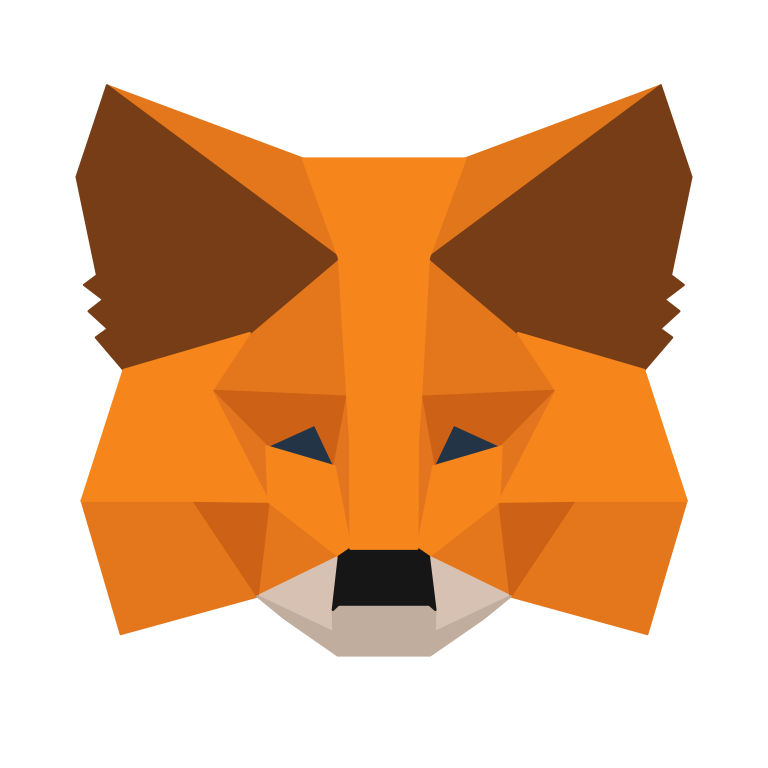
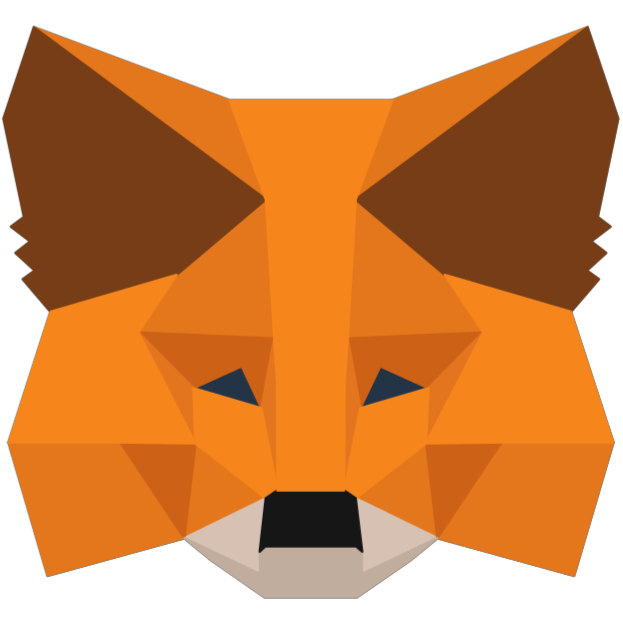
token meta

diff --git a/components/CreateProposalFlow/ListNFT.tsx b/components/CreateProposalFlow/ListNFT.tsx
@@ -1,14 +1,108 @@
-import React from 'react'
+import Image from 'next/image'
+import React, { useState } from 'react'
 import { SelectProposalProps } from './SelectProposal'
+import NFT from "../../assets/NFT.png";
+import { ProposalStep } from '../../pages/create-proposal';
+import { requiredTag } from '../CreateDAOForm';
+import Select from '../Select';
+import info from "../../assets/info.png";
+import { ArrowLeftIcon, ArrowRightIcon } from '@heroicons/react/solid';
 
 type Props = {}
 
+const option = [
+  {
+    "chainId": 'opensea',
+    "name": "Opensea",
+    "icon": "",
+    // "address": "",
+  },
+]
+
 const ListNFT: React.FC<SelectProposalProps> = ({
-    setCurrentStep,
-    handleBack
+  setCurrentStep,
+  handleBack
 }) => {
+
+  const [inputType, setInputType] = useState<any>({
+    "chainId": 'opensea',
+    "name": "Opensea",
+    "icon": "",
+    // "address": "",
+  })
+
+  const onSubmitHandler: React.FormEventHandler<HTMLFormElement> = (e) => {
+    e.preventDefault();
+    alert("Done")
+    // if (!name.length || !description.length || !tokenSupply || managementFee >= 100 || managementFee < 0 || tokenName.length !== 4) {
+    //     console.log('Error in values, Please input again')
+    //     return;
+    // }
+
+    // setCurrentStep(ProposalStep.)
+  }
+
   return (
-    <div>ListNFT</div>
+    <div className='pb-8 text-lg max-w-2xl mx-auto '>
+      <div className='max-w-2xl mx-auto text-lg flex items-center justify-between h-28 p-6 bg-[url("/Button.png")]  bg-[#232529]    bg-cover overflow-hidden rounded-2xl '>
+
+        <div className='text-white'>
+          <h2 className=' text-2xl font-normal font-britanica '>List NFT for Sale</h2>
+          <p className='text-lg font-montserrat'>List you vault’s NFT for sale</p>
+        </div>
+        <div className='mt-20'>
+          <Image src={NFT} height={220} width={220} />
+        </div>
+
+      </div>
+      <form onSubmit={onSubmitHandler}>
+
+        <div className='flex mt-6 space-x-10 '>
+          <label className='flex-[0.3]'>
+            <p className='text-xl mt-1 font-britanica font-normal'>PLatform for Sale</p>
+            <Select
+              options={option}
+              value={inputType}
+              onChange={(value) => setInputType(value)}
+              placeholder="Days"
+            />
+          </label>
+          <label className='flex-[0.7] relative'>
+            <p className='text-xl mt-2 font-britanica font-normal'>Listing Price in (eth)?</p>
+
+            <input required type='number' step="0" min={1} max={inputType.name === "Days" ? 7 : 24} className='p-3 rounded-lg bg-transparent focus:outline-none border-[1px] border-gray-600 w-full ' placeholder='21' />
+          </label>
+        </div>
+
+        <div className='flex flex-col space-y-4 my-6'>
+          <label className='relative '>
+            <div className='text-xl flex items-center '>
+              <div className='flex flex-col'>
+                <p className='mr-1 font-britanica font-normal'>Listing Expiry Time</p>
+                <p className='mr-1 font-montserrat text-gray-300  text-base font-normal'>When will the listing expire ?</p>
+              </div>
+              {/* <div className='group'>
+                <Image src={info} className="cursor-pointer " height={30} width={30} />
+                <div className='text-gray-400  group-hover:flex hidden absolute right-0 top-0 bg-input rounded-lg px-2 py-1 font-montserrat text-sm w-[34rem]'>The token-based quorum is among the most basic DAO voting mechanisms. For a proposal to pass, a certain number of DAO members must participate in the voting process.</div>
+              </div> */}
+            </div>
+
+            <input required type='datetime-local' style={{ colorScheme: 'dark' }} className='p-3  rounded-lg bg-transparent focus:outline-none border-[1px] border-gray-600 w-full mt-2' placeholder='21/08/2022 ; 08:46 HRS GMT' />
+
+          </label>
+        </div>
+        <div className='flex justify-between'>
+          <button onClick={handleBack} className='w-44 px-3 py-2 rounded-lg font-semibold bg-[#232529]  text-white flex items-center justify-center space-x-4'>
+            <ArrowLeftIcon className='w-4' />
+            <span>Back</span>
+          </button>
+          <button type='submit' className='w-44 px-3 py-2 rounded-lg font-semibold !bg-button  text-black flex items-center justify-center space-x-4'>
+            <span>Next Step</span>
+            <ArrowRightIcon className='w-4' />
+          </button>
+        </div>
+      </form>
+    </div>
   )
 }
 

diff --git a/pages/vaults/[id].tsx b/pages/vaults/[id].tsx
@@ -19,9 +19,9 @@ import { DataContext } from '../../contexts/dataContext';
 import { fixTokenURI } from '../../utils';
 import { RiShareBoxLine } from "react-icons/ri";
 import { MdMail } from 'react-icons/md';
+import meta from '../../assets/MetaMask_Fox.svg.png'
 
-
-
+declare var window: any
 
 import Slider from "react-slick";
 import "slick-carousel/slick/slick.css";
@@ -45,6 +45,7 @@ import loader from '../../assets/loader.json'
 import Lottie from 'react-lottie-player'
 import success from '../../assets/happy.json'
 import { MdIosShare } from "react-icons/md"
+import Image from 'next/image';
 
 
 const links = [
@@ -364,6 +365,36 @@ const VaultDetail: React.FC = () => {
         window.open(link, "_blank");
     }
 
+    let eth : any
+    if (typeof window !== 'undefined') {
+        eth = window?.ethereum
+    }
+
+
+    const handleAddToken = () => {
+        eth
+            .request({
+                method: 'wallet_watchAsset',
+                params: {
+                    type: 'ERC20',
+                    options: {
+                        address: data?.contractAddress,
+                        symbol: 'FRAG-' + data?.tokenName,
+                        decimals: 18,
+                        image: 'https://freeimage.host/i/tuaadg',
+                    },
+                },
+            })
+            .then((success : any) => {
+                if (success) {
+                    alert('FOO successfully added to wallet!');
+                } else {
+                    throw new Error('Something went wrong.');
+                }
+            })
+            .catch(console.error);
+    }
+
     const SlickArrowLeft = ({ currentSlide, slideCount, ...props }: any) => (
         <div {...props} className='cursor-pointer  bg-gray-300 rounded-full p-2 absolute z-10 left-4 top-60'><ChevronLeftIcon className='text-white h-7 w-7' /></div>
         // <img src={LeftArrow} alt="prevArrow" {...props} />
@@ -596,14 +627,20 @@ const VaultDetail: React.FC = () => {
                     </div>
                     <div>
                         <span className='border-b-[1px] font-britanica font-normal border-gray-500 text-xl text-gray-500'>Proof of Authenticity</span>
-                        <div>
-                            <a href={`https://mumbai.polygonscan.com/address/${data?.contractAddress}`} target='_blank' className='mt-4 bg-[#1E1E24] p-4 m-2 rounded-lg flex justify-between  cursor-pointer'>
-                                <div className='flex items-center justify-center'>
-                                    <img src="https://mumbai.polygonscan.com/images/svg/brands/poly.png?v=1.3" className='h-6 w-6 rounded-full' />
-                                    <p className='ml-4'>View on PolygonScan</p>
-                                </div>
-                                <ArrowUpIcon className='h-6 w-6 rotate-45' />
-                            </a>
+                        <div className="w-full">
+                            <div className="flex w-full">
+                                <a href={`https://mumbai.polygonscan.com/address/${data?.contractAddress}`} target='_blank' className='mt-4 bg-[#1E1E24] p-4 m-2 rounded-lg flex flex-[0.5] justify-between  cursor-pointer'>
+                                    <div className='flex items-center justify-center'>
+                                        <img src="https://mumbai.polygonscan.com/images/svg/brands/poly.png?v=1.3" className='h-6 w-6 rounded-full' />
+                                        <p className='ml-4'>View on PolygonScan</p>
+                                    </div>
+                                    <ArrowUpIcon className='h-6 w-6 rotate-45' />
+                                </a>
+                                <button className="flex flex-[0.5] bg-[#1E1E24] mt-4 p-4 m-2 rounded-lg justify-between items-center cursor-pointer" onClick={handleAddToken}>
+                                    <p>Add Token To your Wallet</p>
+                                    <Image src={meta} height={40} width={40} />
+                                </button>
+                            </div>
                             <a href={`https://gnosis-safe.io/app/gor:${id}/home`} target='_blank' className='mt-4 bg-[#1E1E24] p-4 m-2 rounded-lg flex justify-between cursor-pointer'>
                                 <div className='flex items-center justify-center'>
                                     <img src="https://pbs.twimg.com/profile_images/1566775952620900353/vRyTLmek_400x400.jpg" className='h-6 w-6 rounded-full' />

diff --git a/components/LifiWidget.tsx b/components/LifiWidget.tsx
@@ -1,7 +1,8 @@
 import React, { useContext , useEffect} from 'react'
+import type { NextPage } from 'next';
 
 import type { LiFiWidget } from '@lifi/widget';
-import type { NextPage } from 'next';
+
 import dynamic from 'next/dynamic';
 import ConnectModalContext from '../contexts/connectwallet';
 import { WidgetConfig } from '@lifi/widget';
@@ -29,7 +30,7 @@ const Loader = () => (
 
 )
 
-const LifiWidget: React.FC = () => {
+const LifiWidget: any = () => {
 
     const { swapModal, setSwapModal } = useContext(ConnectModalContext);
 
@@ -59,32 +60,6 @@ const LifiWidget: React.FC = () => {
         toToken: "0x0000000000000000000000000000000000000000",
         variant: 'expandable',
     }), []);
-
-    // const widgetEvents = useWidgetEvents();
-
-
-
-    // useEffect(() => {
-    //     const onRouteExecutionStarted = (route: Route) => {
-    //         // console.log('onRouteExecutionStarted fired.');
-    //     };
-    //     const onRouteExecutionUpdated = (update: RouteExecutionUpdate) => {
-    //         // console.log('onRouteExecutionUpdated fired.');
-    //     };
-    //     const onRouteExecutionCompleted = (route: Route) => {
-    //         // console.log('onRouteExecutionCompleted fired.');
-    //     };
-    //     const onRouteExecutionFailed = (update: RouteExecutionUpdate) => {
-    //         // console.log('onRouteExecutionFailed fired.');
-    //     };
-    //     widgetEvents.on(WidgetEvent.RouteExecutionStarted, onRouteExecutionStarted);
-    //     widgetEvents.on(WidgetEvent.RouteExecutionUpdated, onRouteExecutionUpdated);
-    //     widgetEvents.on(WidgetEvent.RouteExecutionCompleted, onRouteExecutionCompleted);
-    //     widgetEvents.on(WidgetEvent.RouteExecutionFailed, onRouteExecutionFailed);
-
-
-    //     return () => widgetEvents.all.clear();
-    // }, [widgetEvents]);
 
     return (
         <Transition.Root show={swapModal} as={Fragment}>

diff --git a/components/CreateProposalFlow/SelectProposal.tsx b/components/CreateProposalFlow/SelectProposal.tsx
@@ -27,8 +27,12 @@ const SelectProposal: React.FC<SelectProposalProps> = ({
             alert("Please select a proposal type")
             return;
         }
-
-        setCurrentStep(ProposalStep.SelectNFT);
+        if(type === ProposalStep.SwapTokens || type === ProposalStep.Liquidation){
+            setCurrentStep(type)
+        }
+        else {   
+            setCurrentStep(ProposalStep.SelectNFT);
+        }
     }
 
     const Options = ({ title, desc, option, open }: any) => (

diff --git a/components/CreateProposalFlow/SelectNFT.tsx b/components/CreateProposalFlow/SelectNFT.tsx
@@ -25,10 +25,10 @@ const SelectNFT: React.FC<SelectProposalProps> = ({
 
   const onSubmitHandler: React.MouseEventHandler<HTMLButtonElement> = (e) => {
     e.preventDefault();
-    if (transferred.length === 0) {
-      alert("Please import atleast 1 NFT");
-      return;
-    }
+    // if (transferred.length === 0) {
+    //   alert("Please import atleast 1 NFT");
+    //   return;
+    // }
     const nfts = nftsImported;
     // const form = {
     //     ...formData, nfts

diff --git a/pages/proposals/[vault].tsx b/pages/proposals/[vault].tsx
@@ -1,0 +1,11 @@
+import React from 'react'
+
+type Props = {}
+
+const [vault] = (props: Props) => {
+  return (
+    <div>[vault]</div>
+  )
+}
+
+export default [vault]
